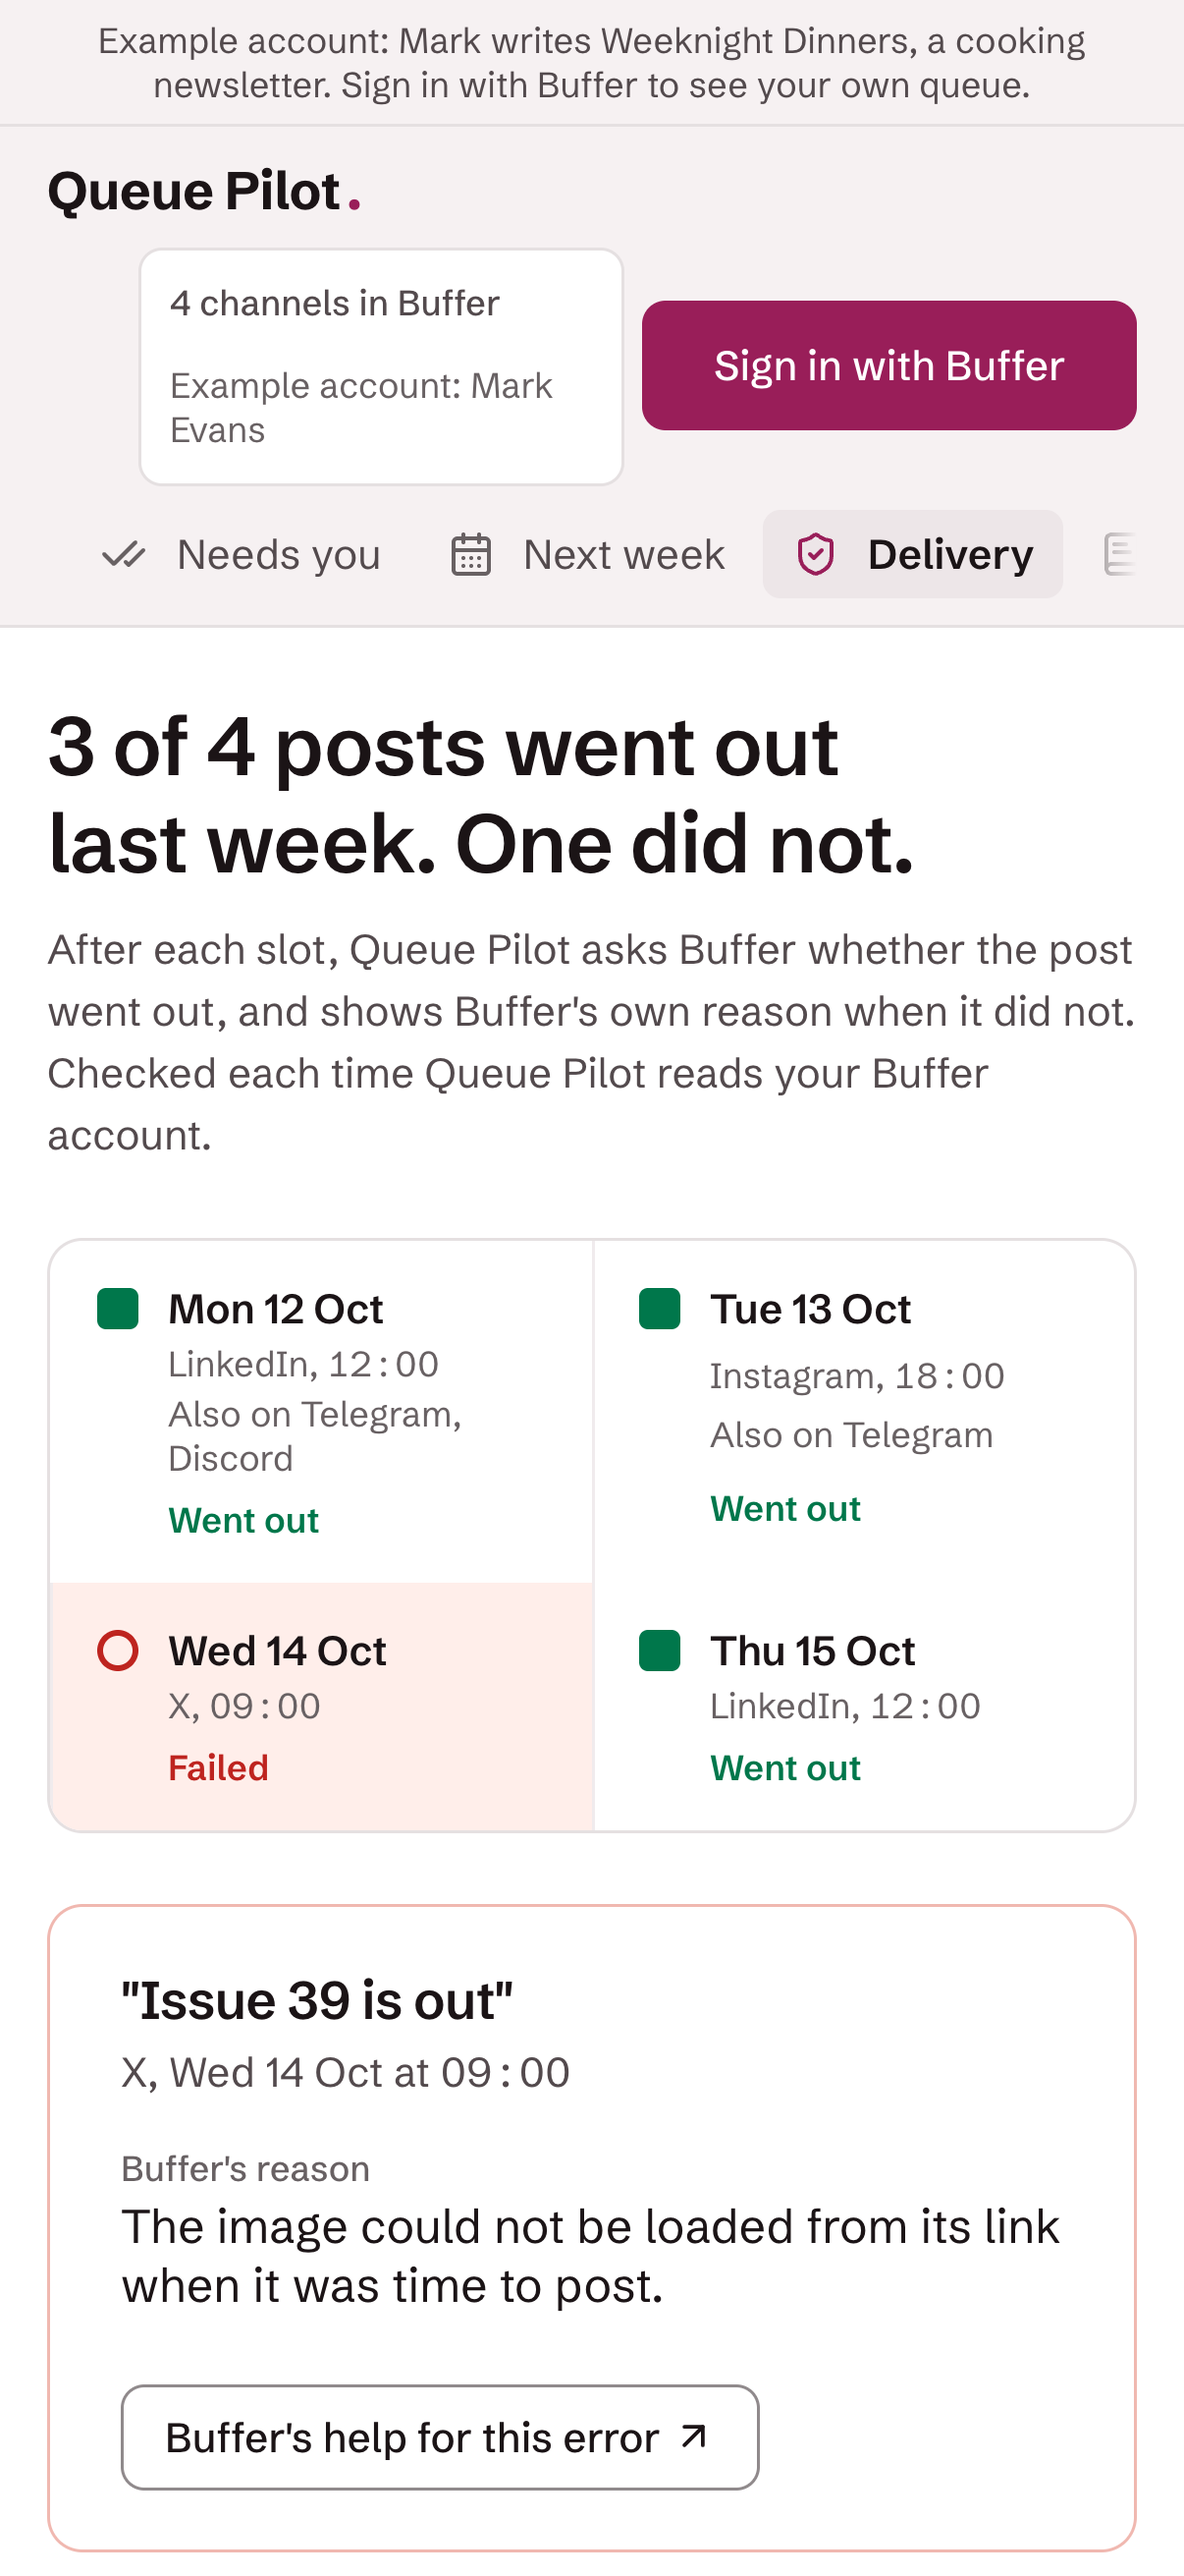
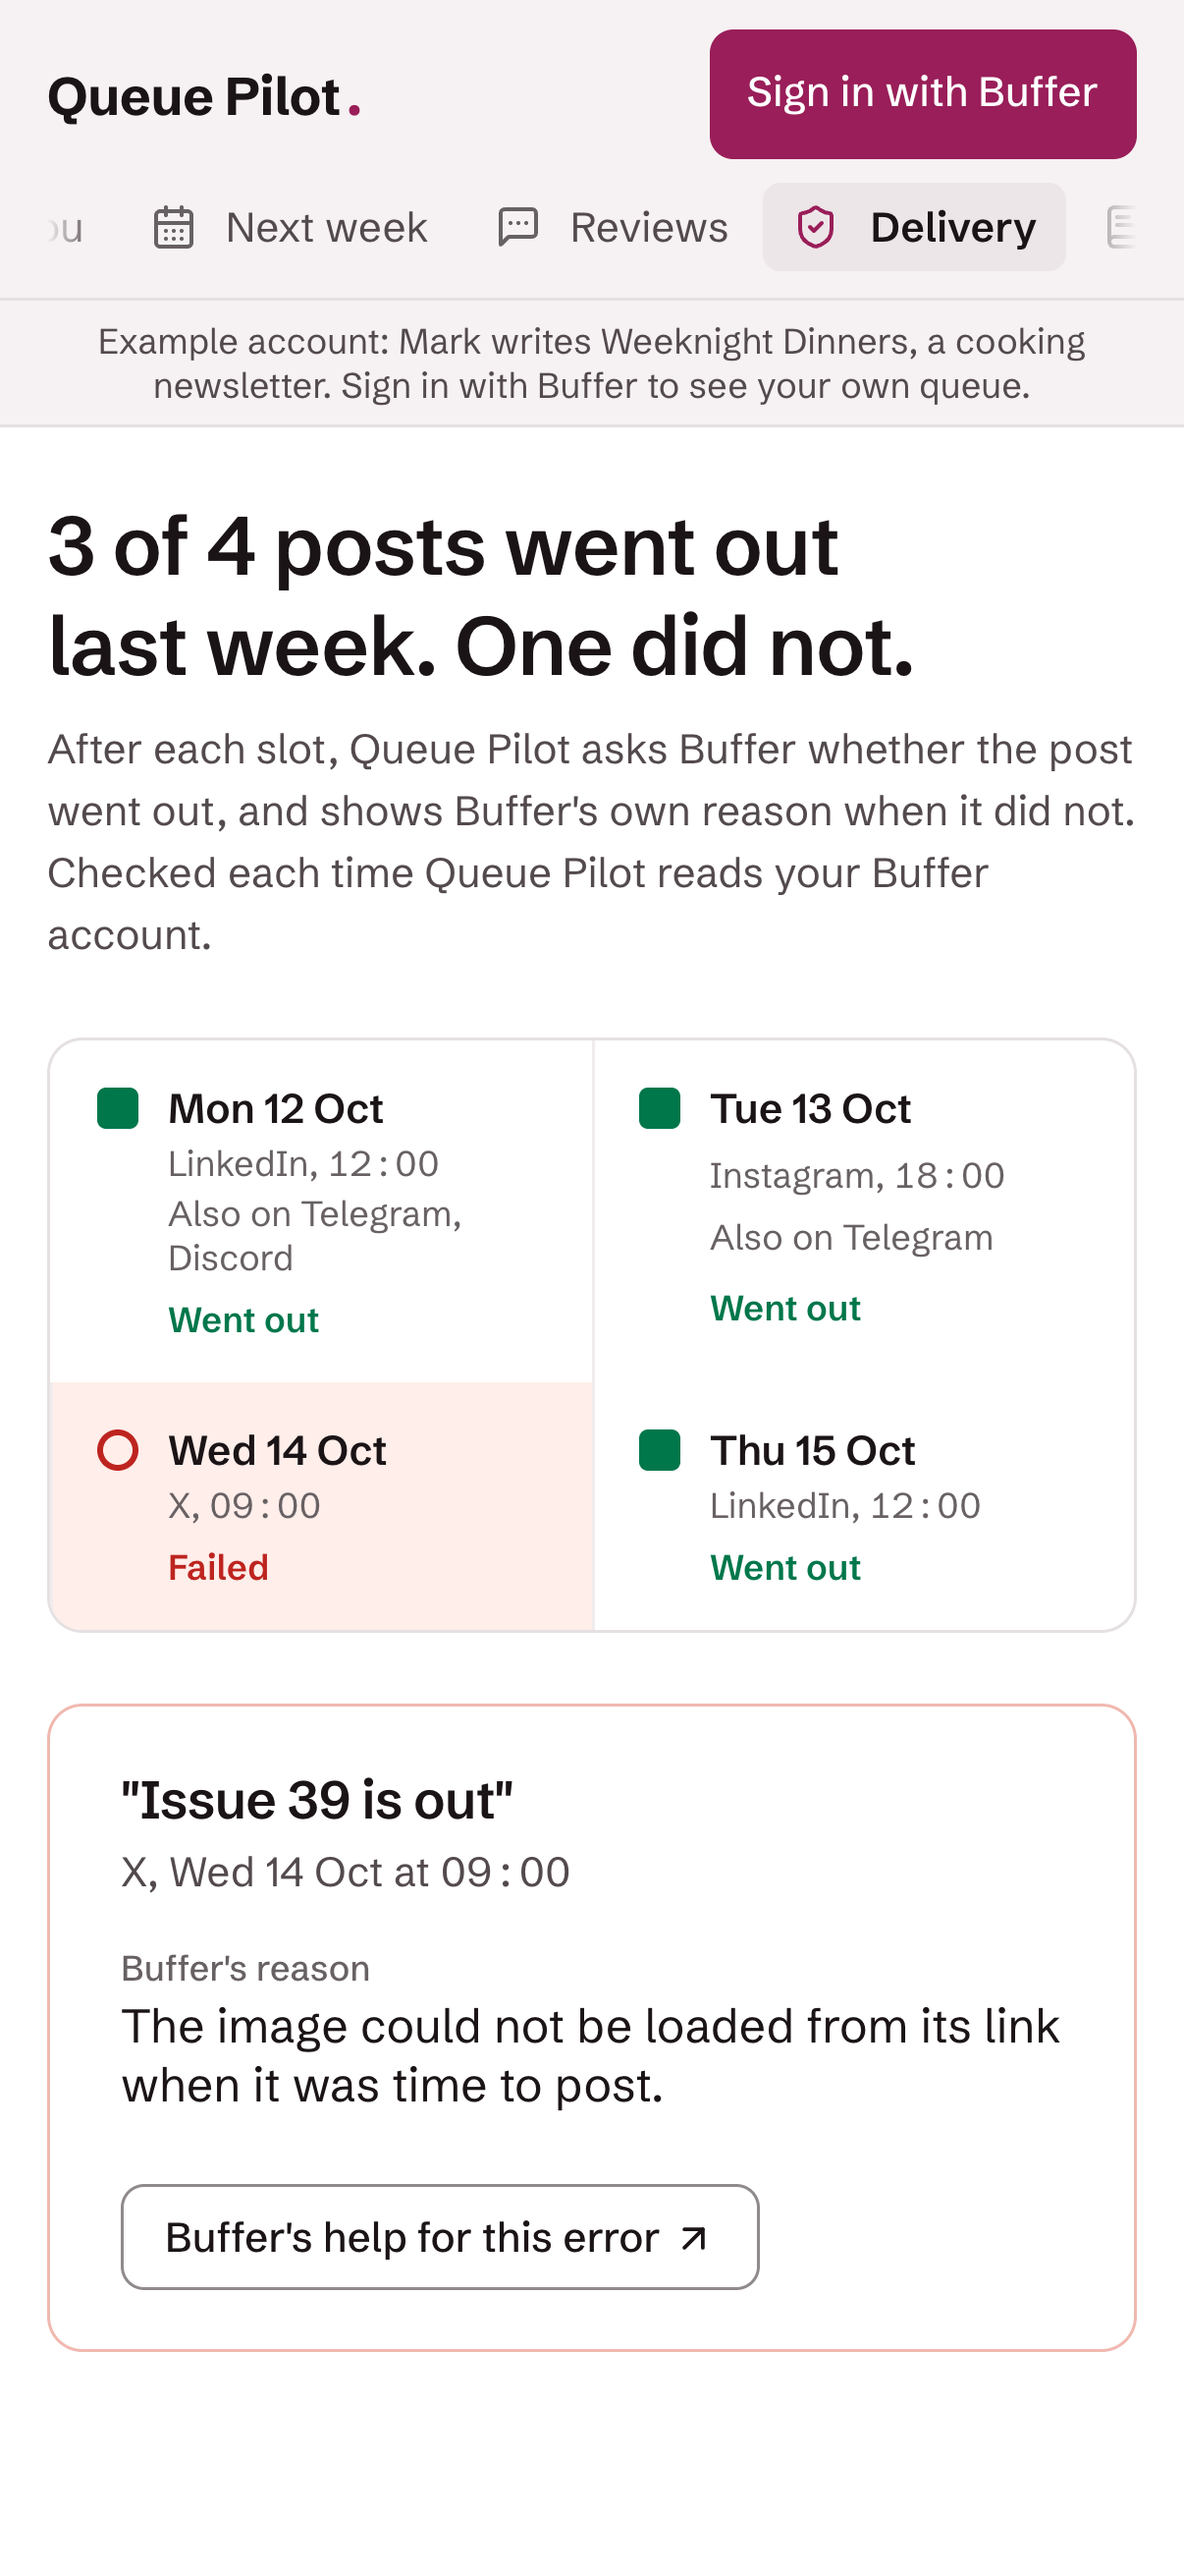
docs(readme): show v7 screens and Grok Bot drafting into Buffer
The README's screenshots predated v7 and showed none of the AI apps at work. All nine are retaken on the live example, which now matches the signed-in screens, and the connector section shows Grok Bot saving a checked draft from an X post and that draft waiting in Buffer. New checks keep the README true: linked files exist, images say what they show, screenshots carry no metadata, no unused screenshot stays, named tools exist, and the request table adds up.

- docs/media: nine screens from the live example, plus grok-bot-draft.png and buffer-draft.png from the v0.7.0 release
- README.md: approve wording, draft window, Connect page, connector routing note, request counting, What's next
- src/lib/readme-gates.test.ts: the six checks, each proven to fail on a planted fault

diff --git a/src/lib/readme-gates.test.ts b/src/lib/readme-gates.test.ts
@@ -1,0 +1,66 @@
+/**
+ * @fileoverview Checks that keep the README true to the repository: every image and file it links exists, every image
+ * says what it shows, screenshots carry no hidden metadata, no screenshot sits unused, every connector tool it names
+ * exists, and the first-session cost table adds up. Copy rules and the settings table have their own tests.
+ */
+import { readFileSync, readdirSync, existsSync } from "node:fs";
+import { join } from "node:path";
+import { describe, expect, it } from "vitest";
+
+const root = join(__dirname, "../..");
+const readme = readFileSync(join(root, "README.md"), "utf8");
+const images = [...readme.matchAll(/!\[([^\]]*)\]\(([^)]+)\)|<img alt="([^"]*)" src="([^"]+)"|srcset="([^"]+)"/g)].map((m) => ({ alt: m[1] ?? m[3] ?? null, src: m[2] ?? m[4] ?? m[5] }));
+const localLinks = [...readme.matchAll(/\]\((?!https?:|#|mailto:)([^)\s]+)\)/g)].map((m) => m[1].split("#")[0]);
+
+/** PNG chunk types other than the ones needed to draw the image (text, time, EXIF, XMP and the like). */
+function metadataChunks(file: string): string[] {
+  const d = readFileSync(file);
+  const keep = new Set(["IHDR", "PLTE", "IDAT", "IEND", "tRNS", "sRGB", "gAMA", "cHRM", "pHYs", "bKGD"]);
+  const found: string[] = [];
+  for (let i = 8; i < d.length; ) {
+    const n = d.readUInt32BE(i);
+    const type = d.toString("latin1", i + 4, i + 8);
+    if (!keep.has(type)) found.push(type);
+    i += 12 + n;
+  }
+  return found;
+}
+
+describe("README", () => {
+  it("links only to files and images that exist", () => {
+    const missing = [...new Set([...images.map((i) => i.src), ...localLinks])].filter((p) => !existsSync(join(root, p)));
+    expect(missing).toEqual([]);
+  });
+
+  it("describes what every image shows", () => {
+    const vague = images.filter((i) => i.alt !== null && i.alt.trim().split(/\s+/).length < 6).map((i) => i.src);
+    expect(vague).toEqual([]);
+  });
+
+  it("ships screenshots without hidden metadata", () => {
+    const dirty = images.filter((i) => i.src.endsWith(".png")).map((i) => [i.src, metadataChunks(join(root, i.src))] as const).filter(([, c]) => c.length);
+    expect(dirty).toEqual([]);
+  });
+
+  it("keeps no unused screenshots in docs/media", () => {
+    const docs = [readme, ...readdirSync(join(root, "docs")).filter((f) => f.endsWith(".md")).map((f) => readFileSync(join(root, "docs", f), "utf8"))].join("\n");
+    const unused = readdirSync(join(root, "docs/media")).filter((f) => !docs.includes(`media/${f}`));
+    expect(unused).toEqual([]);
+  });
+
+  it("names only connector tools that exist", () => {
+    const sources = readdirSync(join(root, "src/lib")).filter((f) => f.startsWith("mcp-") && f.endsWith(".ts")).map((f) => join(root, "src/lib", f));
+    const code = [join(root, "src/app/api/mcp/route.ts"), ...sources].map((f) => readFileSync(f, "utf8")).join("\n");
+    const registered = new Set([...code.matchAll(/registerTool\(\s*"([a-z_]+)"/g)].map((m) => m[1]));
+    const named = [...new Set([...readme.matchAll(/`([a-z]+(?:_[a-z]+)+)`/g)].map((m) => m[1]))];
+    expect(registered.size).toBeGreaterThan(20);
+    expect(named.filter((t) => !registered.has(t))).toEqual([]);
+  });
+
+  it("has a first-session cost table that adds up", () => {
+    const rows = [...readme.matchAll(/^\| ([^|*]+?) \| (\d+) \|$/gm)].map((m) => Number(m[2]));
+    const total = Number(readme.match(/\| \*\*First session\*\* \| \*\*(\d+)\*\* \|/)?.[1]);
+    expect(rows.length).toBeGreaterThan(3);
+    expect(rows.reduce((a, b) => a + b, 0)).toBe(total);
+  });
+});

diff --git a/README.md b/README.md
@@ -18,12 +18,12 @@ Teach Queue Pilot your voice by pasting something you've written, or ask your co
 
 <picture>
   <source media="(max-width: 600px)" srcset="docs/media/week-mobile.png">
-  <img alt="Next week: one row per Buffer channel, posting times, and the empty times highlighted" src="docs/media/week.png">
+  <img alt="Next week: one row per Buffer channel, posting times, the empty times highlighted, and New post, Fill next week, Share for review and Approve" src="docs/media/week.png">
 </picture>
 
-**2. Your AI writes drafts into the empty times.** From your newsletter, your videos and your own past posts. Every draft is saved in Buffer as a draft. Queue Pilot never schedules or publishes on its own. Only your Approve schedules.
+**2. Your AI writes drafts into the empty times.** From your newsletter, your videos and your own past posts. Every draft is saved in Buffer as a draft. Queue Pilot never schedules or publishes on its own. Only your Approve schedules, or your AI when you ask it.
 
-![A draft opened from the week: the rules it follows and the problem that would stop it in Buffer](docs/media/draft-check.png)
+![A draft opened from the week: the post with its tag, the quotes from the newsletter behind each claim, the checks, the rules set for that account, and a Note](docs/media/draft-check.png)
 
 **3. It learns from the edits you make in Buffer.** Make the same kind of fix to two drafts, and Queue Pilot offers it as a rule, with your two edits as proof. It groups edits by what you meant, not by the exact words, so cutting "Excited to share" and cutting "Thrilled to share" count as the same fix.
 
@@ -31,7 +31,7 @@ Teach Queue Pilot your voice by pasting something you've written, or ask your co
 
 **4. Every draft is checked against your rules.** A model judges each rule by meaning, in the draft's own language: "never broth" also catches "Brühe". A broken rule either stops the draft or flags it for you, whichever you chose.
 
-![The playbook: rules grouped by network, each with where it came from](docs/media/playbook.png)
+![The playbook for one account: the shared and network rules it inherits, each with a switch to turn it off for that account](docs/media/playbook.png)
 
 **5. It tells you what went out.** A failed post shows Buffer's own reason and how to fix it. Sent posts can be copied to your Telegram channel and Discord server.
 
@@ -44,7 +44,15 @@ Teach Queue Pilot your voice by pasting something you've written, or ask your co
 
 Queue Pilot is a connector. Your AI app signs in with Buffer through it once, then reads your week, your material and your playbook, and saves drafts. Your rules apply whichever app wrote the draft.
 
-![The Connect screen: one card per AI app with its setup steps and when it last used Queue Pilot](docs/media/connect.png)
+Here Grok Bot read a public X post, kept the exact quote, and saved a checked draft through Queue Pilot:
+
+![Grok Bot beside the original X post: the draft it saved through Queue Pilot, the source quotes, and both playbook rules passing](docs/media/grok-bot-draft.png)
+
+The same draft in Buffer, still a draft until you schedule it:
+
+![The draft in Buffer's Drafts tab, created by Queue Pilot and not scheduled](docs/media/buffer-draft.png)
+
+![The Connect page: one line to set up a coding agent, the connector address, a card per chat app, and what your AI can read, change, and needs your yes for](docs/media/connect.png)
 
 | App | How to connect |
 |---|---|
@@ -75,6 +83,8 @@ Give your AI the skills for the steps to follow once connected: the setup line o
 
 The connector schedules only drafts Queue Pilot wrote, only when you ask, and asks you first unless you change that in Settings. It edits or deletes a single draft only when Queue Pilot wrote it. Organization tools work only inside your own Buffer organizations, and the ones that remove something your team shares (a tag, a hashtag set, or a content item with every post in it) ask you first. Account settings, AI keys and app access stay with you.
 
+Some of these actions Buffer's own MCP has too. Where it does, the tool says so: if you have Buffer's connector, use one of them for that action, not both. Drafting, the checks against your rules and the source quotes stay in Queue Pilot.
+
 ## Your AI key, or ours
 
 - **Your own key** (Anthropic, OpenAI or OpenRouter) always works, with no limit from Queue Pilot. It is stored encrypted and shown masked. Your provider bills you.
@@ -89,9 +99,10 @@ When Buffer sends a post, Queue Pilot can copy it to your Telegram channel and y
 
 ![How Queue Pilot uses Buffer's API: screens and AI apps read one saved copy of your queue, it refreshes when old, re-reads before writing, and new posts are saved as drafts](docs/media/diagram-api.png)
 
-- **Drafts first.** Queue Pilot never schedules or publishes on its own. Only your Approve schedules.
+- **Drafts first.** Queue Pilot never schedules or publishes on its own. Only your Approve schedules, or your AI when you ask it.
 - **Only its own drafts.** It approves, edits or deletes a single draft only when it wrote that draft. Deleting a whole content item, which you confirm first, removes the posts in it.
 - **One saved copy per person.** Channels, posting times and posts from 7 days back to 14 days ahead. Screens and the connector read the copy, so browsing costs no requests.
+- **Every request is counted.** All Queue Pilot users share one Buffer allowance, so each request is counted before it's sent, across every server. Assistant and background requests pause at 15 left in a known window. When the allowance isn't known yet, they go one at a time until Buffer reports it.
 - **Polling, not webhooks.** Buffer has no webhooks, so the copy refreshes when it is older than 5 minutes, from the Refresh button, and once a day.
 - **Within Buffer's limits.** Each app gets 500 requests a day plus 25 for every person who signs in ([API limits](https://developers.buffer.com/guides/api-limits)). A whole first session costs 21:
 
@@ -150,9 +161,9 @@ The budget is enforced by Queue Pilot: before each built-in AI action it compare
 
 Next up, on the way to 1.0:
 
-- **More places to write from.** Claude, ChatGPT, Grok and coding agents (Claude Code, Codex and Cursor) can all connect now. Next is a tested walkthrough for each one.
-- **Rules from day one.** Your first rules come from the posts and notes already in Buffer.
-- **Your team's notes count.** A note left on a draft in Buffer becomes a rule too.
+- **Your team's notes count.** A comment on a draft in Buffer shows who left it, Queue Pilot tells a one-off fix from a lasting preference, and a kept preference applies to that account only.
+- **Someone new can use it alone.** Try the example, connect your own Buffer and one AI, and get a useful draft without anyone explaining setup.
+- **1.0, proven from a clean copy.** A fresh build, database, sign-in, AI connection and saved draft, checked automatically.
 
 More in the [roadmap](ROADMAP.md), and what shipped in [CHANGELOG.md](CHANGELOG.md).
 
